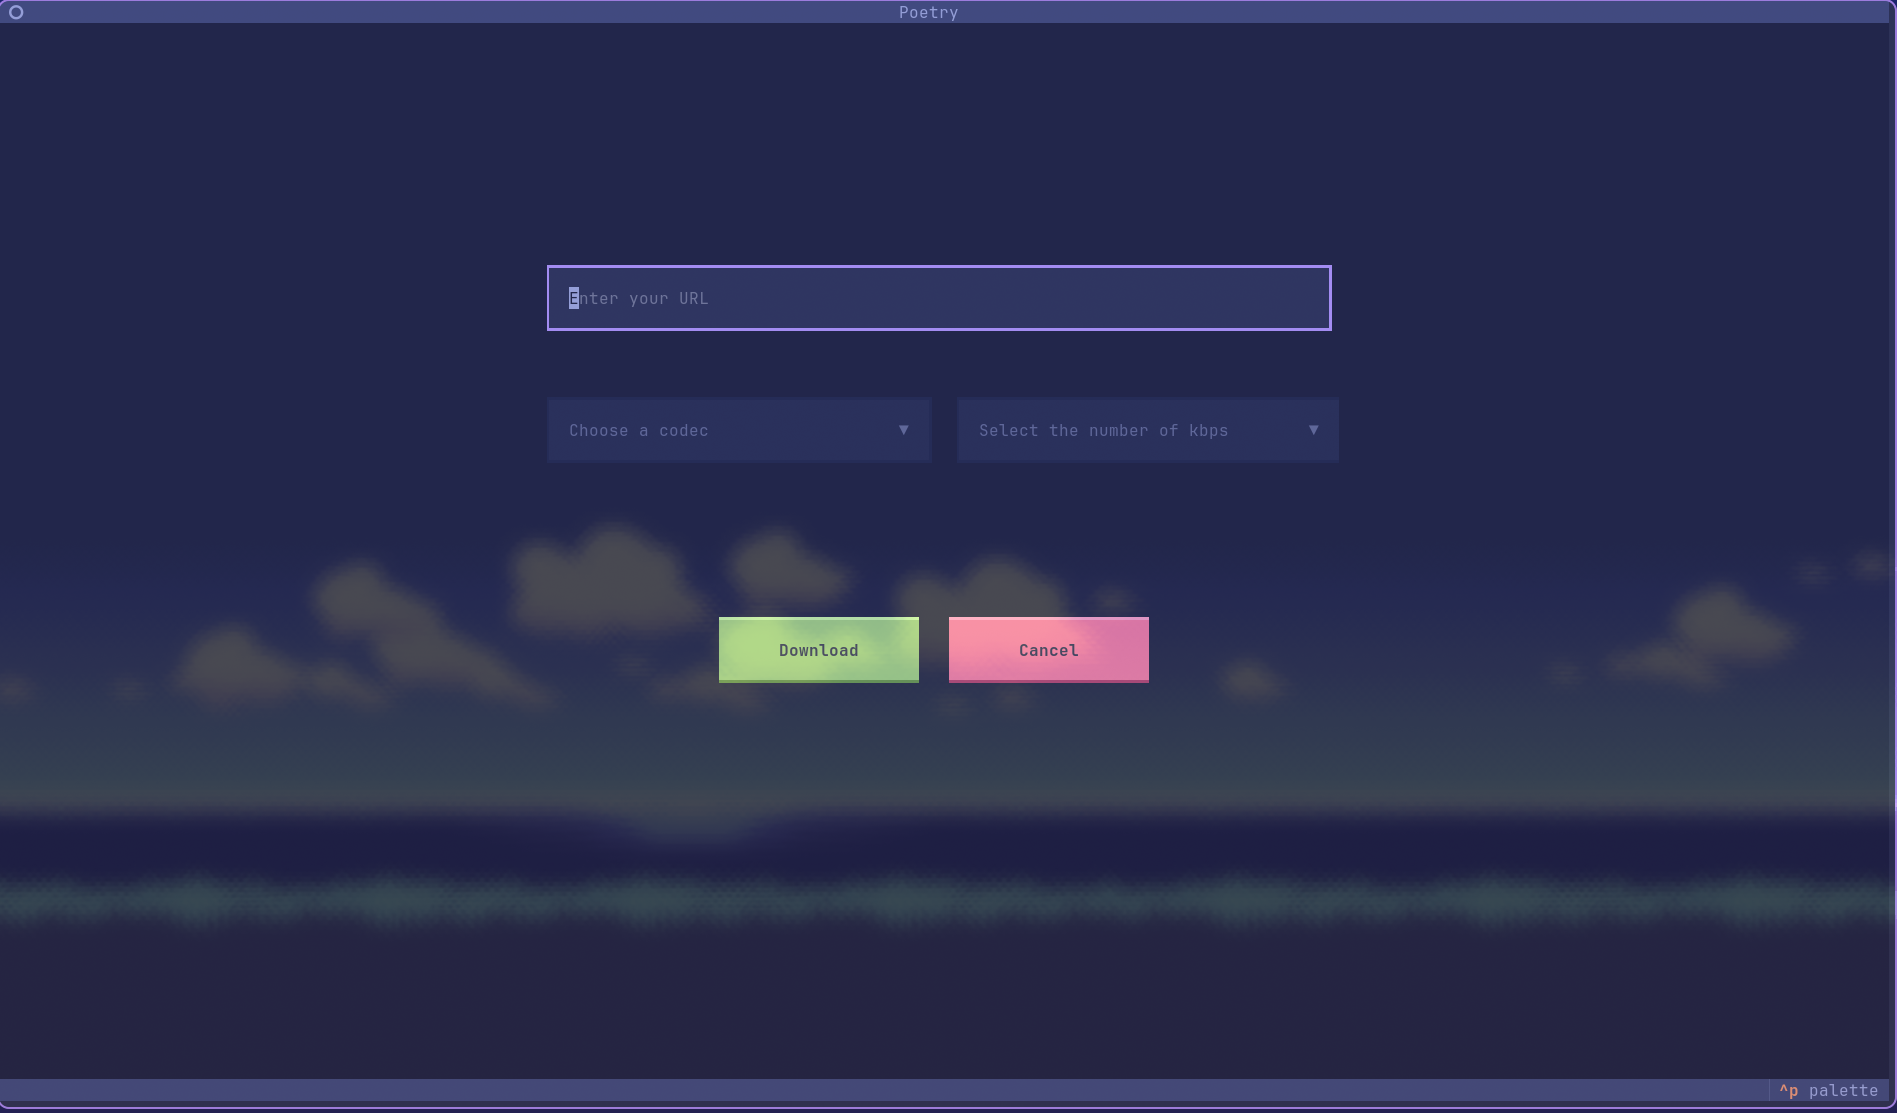
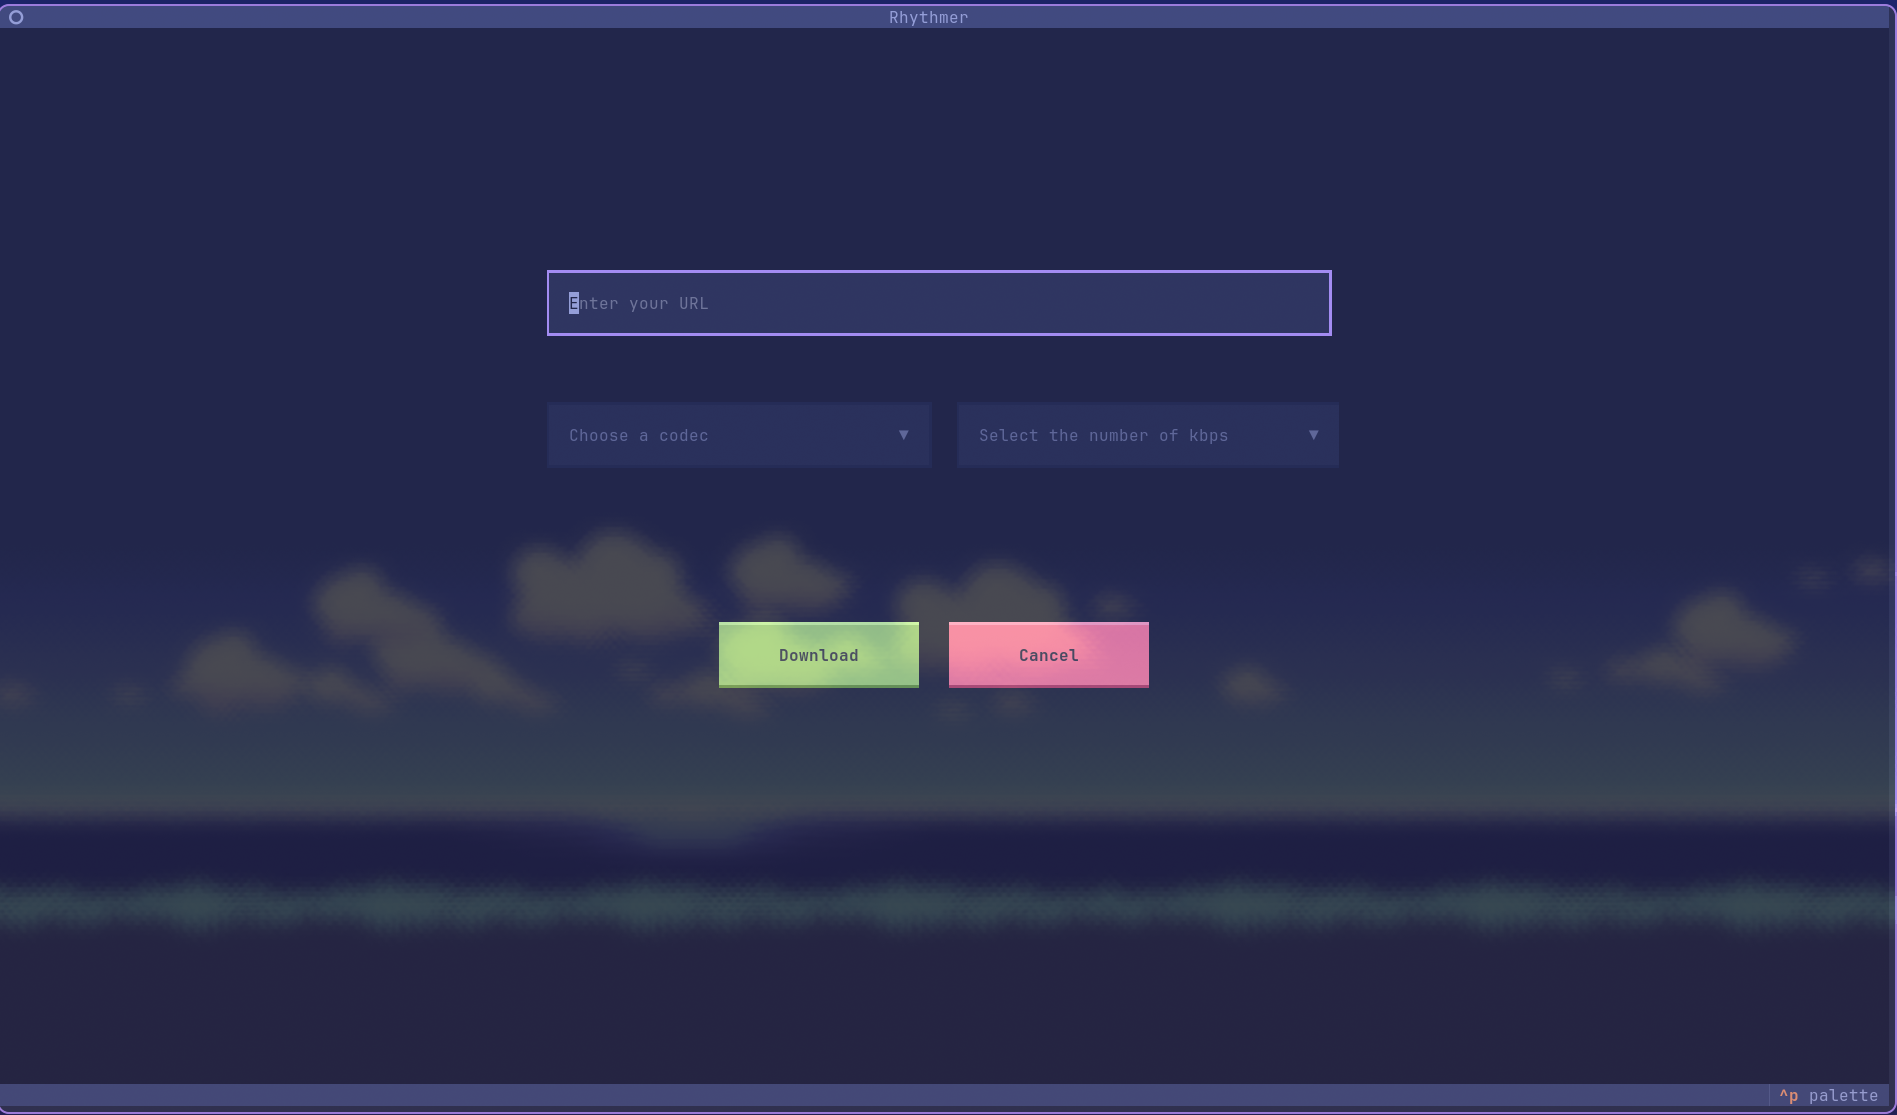
Changed the name again and removed support for the AAC codec

diff --git a/modules/add_metadata.py b/modules/add_metadata.py
@@ -7,8 +7,8 @@ def add_metadata(file: Path, codec: str, title: str, artist: str, album: str):
     Supports different formats using appropriate mutagen classes.
     """
     match codec.lower():
-        case "m4a" | "aac":
-            # M4A/MP4 format - uses iTunes-style metadata keys
+        case "m4a":
+            # M4A format - uses iTunes-style metadata keys
             from mutagen.mp4 import MP4
 
             audio = MP4(file)

diff --git a/main.py b/main.py
@@ -9,7 +9,6 @@ import asyncio
 # Available codec options for audio conversion
 LINES_CODEC = """M4A
 MP3
-AAC
 FLAC
 Opus""".splitlines()
 
@@ -19,7 +18,7 @@ LINES_KBPS = """64
 256
 320""".splitlines()
 
-class Poetry(App):
+class Rhythmer(App):
     CSS = """
     #main_container {
         layout: vertical;
@@ -226,5 +225,5 @@ class Poetry(App):
 
 
 if __name__ == "__main__":
-    app = Poetry()
+    app = Rhythmer()
     app.run()

diff --git a/README.md b/README.md
@@ -1,4 +1,4 @@
-# poetry - TUI Audio Downloader
+# Rhytmer - TUI Audio Downloader
 
 A terminal-based user interface (TUI) for downloading high-quality audio. Built with Python, `yt-dlp`, and `textual` for a modern terminal experience with automatic metadata embedding.
 
@@ -50,12 +50,12 @@ brew install ffmpeg
 2. Add the `bin` folder to your system PATH
 3. Verify: `ffmpeg -version`
 
-### Install poetry
+### Install Rhytmer
 
 ```bash
 # Clone the repository
-git clone https://github.com/Fkernel653/poetry.git
-cd poetry
+git clone https://github.com/Fkernel653/Rhytmer.git
+cd Rhytmer
 
 # Install dependencies
 pip install -r requirements.txt
@@ -88,7 +88,7 @@ python main.py
 ## 📁 Project Structure
 
 ```
-poetry/
+Rhytmer/
 ├── main.py                # TUI application entry point
 ├── requirements.txt       # Python dependencies
 ├── README.md              # Documentation
@@ -121,7 +121,7 @@ poetry/
 
 | Format | Extension | Metadata Library | Tags Added |
 |--------|-----------|------------------|-------------|
-| M4A/AAC | .m4a/.aac | mutagen.mp4 | `©nam`, `©ART`, `©alb` |
+| M4A | .m4a | mutagen.mp4 | `©nam`, `©ART`, `©alb` |
 | MP3 | .mp3 | mutagen.id3 | TIT2, TPE1, TALB |
 | FLAC | .flac | mutagen.flac | title, artist, album |
 | Opus | .opus | mutagen.oggopus | title, artist, album |
@@ -136,7 +136,7 @@ Audio files are saved to your home directory:
 
 ## 🔧 Configuration
 
-Currently, poetry downloads to your home directory. To change this, modify the `path` variable in `modules/download.py`:
+Currently, Rhytmer downloads to your home directory. To change this, modify the `path` variable in `modules/download.py`:
 
 ```python
 # In download.py, line ~15
